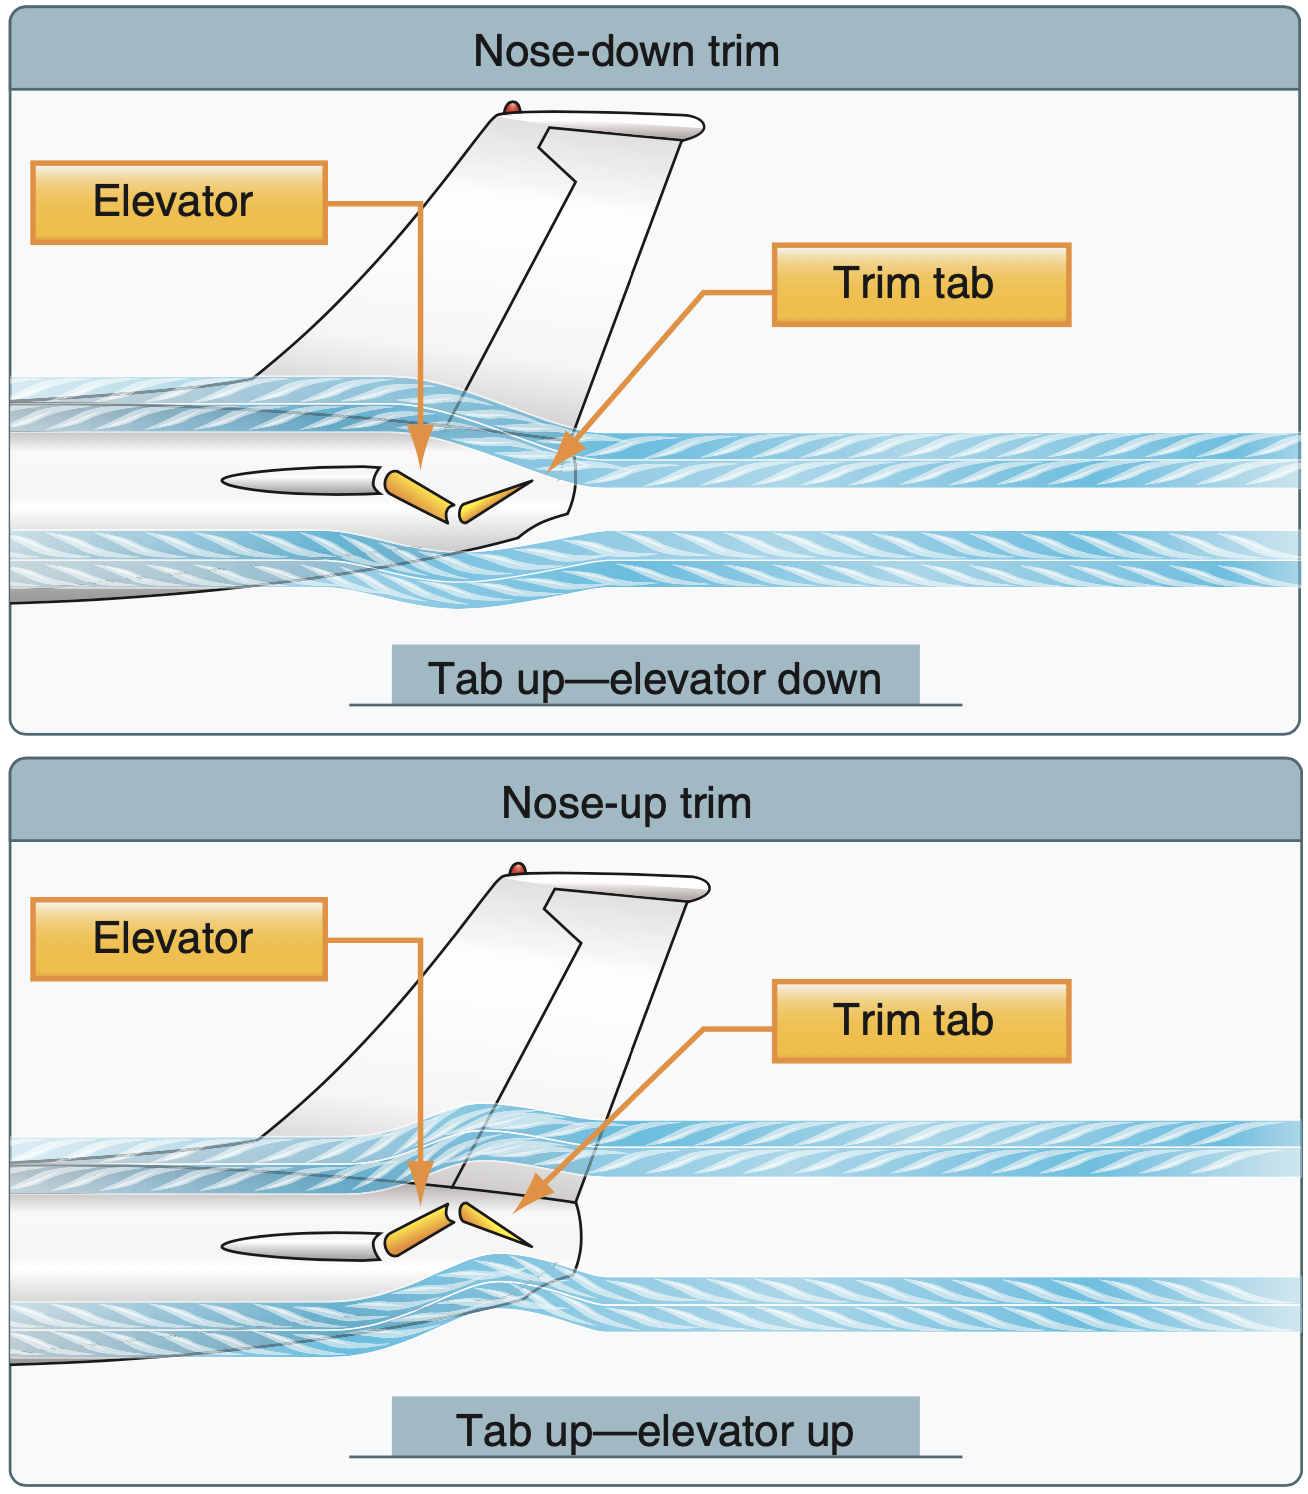
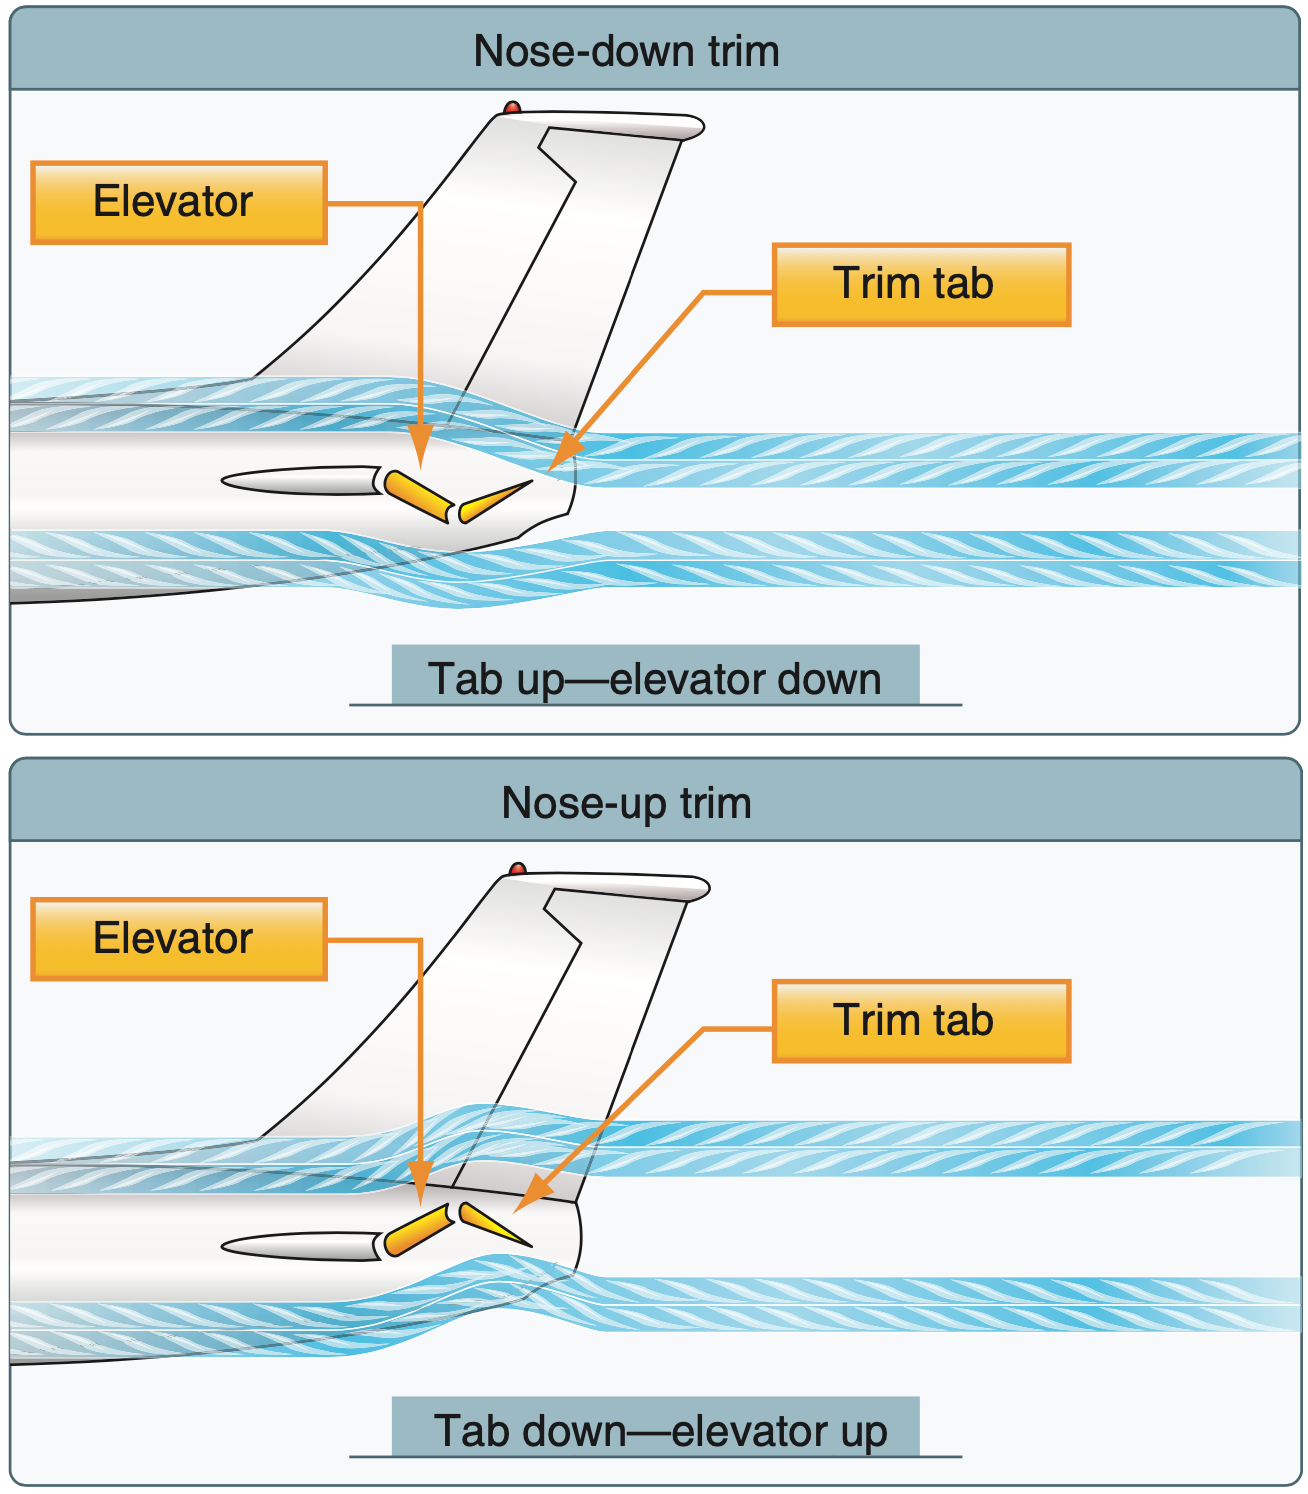
Fixes some errors in effects of controls brief

diff --git a/Effects of controls/effects-of-controls.html b/Effects of controls/effects-of-controls.html
@@ -119,9 +119,9 @@
 <h2 id="flight-controls">Flight controls</h2>
 
 <ul>
-<li data-marpit-fragment="1">Elevator</li>
-<li data-marpit-fragment="2">Ailerons</li>
-<li data-marpit-fragment="3">Rudder</li>
+<li data-marpit-fragment="1"><span>Elevator</span></li>
+<li data-marpit-fragment="2"><span>Ailerons</span></li>
+<li data-marpit-fragment="3"><span>Rudder</span></li>
 </ul>
 <footer>Effects of controls</footer>
 </section>
@@ -155,7 +155,7 @@
 </table>
 <footer>Effects of controls</footer>
 </section>
-</foreignObject></svg><svg data-marpit-svg="" viewBox="0 0 1280 720"><foreignObject width="1280" height="720"><section id="18" data-class="invert" data-footer="Effects of controls" data-theme="gaia" lang="en-AU" class="invert" style="--class:invert;--footer:Effects of controls;--theme:gaia;">
+</foreignObject></svg><svg data-marpit-svg="" viewBox="0 0 1280 720"><foreignObject width="1280" height="720"><section id="18" data-class="lead" data-footer="Effects of controls" data-theme="gaia" lang="en-AU" class="lead" style="--class:lead;--footer:Effects of controls;--theme:gaia;">
 <h2 id="ancillary-flight-controls">Ancillary flight controls</h2>
 <footer>Effects of controls</footer>
 </section>
@@ -287,7 +287,7 @@
 <h2 id="threat-and-error-management">Threat and error management</h2>
 <ul>
 <li data-marpit-fragment="1">Threat and error management (TEM) is a safety management approach</li>
-<li data-marpit-fragment="2">TEM is the process of detecting and responding to threads and errors before they compromise safety</li>
+<li data-marpit-fragment="2">TEM is the process of detecting and responding to threats and errors before they compromise safety</li>
 <li data-marpit-fragment="3"><strong>Threats</strong> have the potential to have a negative effect on flight safety</li>
 <li data-marpit-fragment="4"><strong>Errors</strong> are flight crew actions (or inactions) which can lead to an <strong>undesirable aircraft state</strong> (UAS)</li>
 <li data-marpit-fragment="5">We combat threats and errors by implementing <strong>countermeasures</strong></li>
@@ -401,7 +401,7 @@ If you had to guess, which direction do you think the last force is acting?</p><
 
 This sheet of paper is like an aerodynamic control surface. If I hold it flat and move it through the air then very little force is created. But if I tilt the paper—air will hit the angled surface and get deflected downwards, which pushes the paper upwards. This is simply Newton's 3rd law, for every action there is an equal and opposite reaction.
 
-We can change the magnitude of the force created by the control surface by changing: 1) the angle of the control surface, 2) the speed it moves through the air, 3) the size of the control surface, or 4) the air density.</p></div><div class="bespoke-marp-note" data-index="12" tabindex="0"><p>Longitudinal axis runs down the length of the plane, and when the wings tilt the aircraft is rotating about the longitudinal axis</p></div><div class="bespoke-marp-note" data-index="13" tabindex="0"><p>The lateral axis runs through the plane from wingtip to wingtip. When the nose moves up and down the aircraft is rotating about the lateral axis.</p></div><div class="bespoke-marp-note" data-index="14" tabindex="0"><p>The normal axis is also known as the vertical axis, and it runs from top to bottom through the plane's centre of gravity. When the nose moves left or right the aircraft is rotating about the vertical axis.</p></div><div class="bespoke-marp-note" data-index="15" tabindex="0"><p>Demo with model</p><p>Pushing the control column forward tilts the elevator down. The air hitting the elevator causes the tail to move up, and the nose to move down. This is called pitch.</p><p>Primary effect: pitch up and down</p><p>Turning the control column moves the ailerons in opposite directions. When you turn the control column left the left aileron will move up, and the right aileron will move down. This pushes the left wing down, and the right wing up. This is called roll.</p><p>Primary effect: roll</p><p>Tilts the wings reaction force, causes aircraft to start moving sideways through the air. Air hits the vertical tail fin, which causes a yaw in the direction of roll. Therefore the secondary effect of ailerons is yaw.</p><p>Pushing one of the rudder pedals in moves the rudder. For example pushing the left rudder moves the rudder to the left, which moves the tail right and the nose left. This is called yaw.</p><p>Primary effect: yaw</p><p>As the plane yaws, the outside wing travels a longer path through the air, and therefore is travelling faster. Speed increases the reaction force from the outside wing, which means the outside wing moves upwards. Therefore the secondary effect of rudder is roll.</p></div><div class="bespoke-marp-note" data-index="16" tabindex="0"><p>What can you tell me about the effects of ailerons vs rudder? Their primary and secondary effects are opposite.</p></div><div class="bespoke-marp-note" data-index="19" tabindex="0"><p>An aircraft can have trim tabs on all control surfaces and you will find that larger and more powerful planes, particularly multi-engine planes, do have 3 trim controls. The Cessna 150 however only has trim on the elevator.</p></div><div class="bespoke-marp-note" data-index="20" tabindex="0"><p>FIXME: tab up elevator up is wrong. Remove it</p><p>The trim tab is deflected into the wind in the opposite direction that you want the primary control surface to move, and because it's at the end of a long lever it only needs to create a relatively small force to balance with the control surface in its new position.</p><p>We control the trim by moving the trim wheel. If we roll the trim wheel forward the elevator will be trimmed to a more nose-down position. If we roll it backward the elevator will be trimmed to a more nose-up position. The way I remember this is if I'm holding forward pressure, I need to roll the trim wheel forward. If I'm holding back pressure, I need to roll the trim wheel backward.
+We can change the magnitude of the force created by the control surface by changing: 1) the angle of the control surface, 2) the speed it moves through the air, 3) the size of the control surface, or 4) the air density.</p></div><div class="bespoke-marp-note" data-index="12" tabindex="0"><p>Longitudinal axis runs down the length of the plane, and when the wings tilt the aircraft is rotating about the longitudinal axis</p></div><div class="bespoke-marp-note" data-index="13" tabindex="0"><p>The lateral axis runs through the plane from wingtip to wingtip. When the nose moves up and down the aircraft is rotating about the lateral axis.</p></div><div class="bespoke-marp-note" data-index="14" tabindex="0"><p>The normal axis is also known as the vertical axis, and it runs from top to bottom through the plane's centre of gravity. When the nose moves left or right the aircraft is rotating about the vertical axis.</p></div><div class="bespoke-marp-note" data-index="15" tabindex="0"><p>Demo with model</p><p>Pushing the control column forward tilts the elevator down. The air hitting the elevator causes the tail to move up, and the nose to move down. This is called pitch.</p><p>Primary effect: pitch up and down</p><p>Turning the control column moves the ailerons in opposite directions. When you turn the control column left the left aileron will move up, and the right aileron will move down. This pushes the left wing down, and the right wing up. This is called roll.</p><p>Primary effect: roll</p><p>Tilts the wings reaction force, causes aircraft to start moving sideways through the air. Air hits the vertical tail fin, which causes a yaw in the direction of roll. Therefore the secondary effect of ailerons is yaw.</p><p>Pushing one of the rudder pedals in moves the rudder. For example pushing the left rudder moves the rudder to the left, which moves the tail right and the nose left. This is called yaw.</p><p>Primary effect: yaw</p><p>As the plane yaws, the outside wing travels a longer path through the air, and therefore is travelling faster. Speed increases the reaction force from the outside wing, which means the outside wing moves upwards. Therefore the secondary effect of rudder is roll.</p></div><div class="bespoke-marp-note" data-index="16" tabindex="0"><p>What can you tell me about the effects of ailerons vs rudder? Their primary and secondary effects are opposite.</p></div><div class="bespoke-marp-note" data-index="19" tabindex="0"><p>An aircraft can have trim tabs on all control surfaces and you will find that larger and more powerful planes, particularly multi-engine planes, do have 3 trim controls. The Cessna 150 however only has trim on the elevator.</p></div><div class="bespoke-marp-note" data-index="20" tabindex="0"><p>The trim tab is deflected into the wind in the opposite direction that you want the primary control surface to move, and because it's at the end of a long lever it only needs to create a relatively small force to balance with the control surface in its new position.</p><p>We control the trim by moving the trim wheel. If we roll the trim wheel forward the elevator will be trimmed to a more nose-down position. If we roll it backward the elevator will be trimmed to a more nose-up position. The way I remember this is if I'm holding forward pressure, I need to roll the trim wheel forward. If I'm holding back pressure, I need to roll the trim wheel backward.
 
 Importantly, we don't fly using trim as our means to control attitude. We set the attitude using the elevator, and then trim to relieve control pressure. And in the plane you will find that the adjustments needed to the trim are quite small, particularly when you are trying to get the trim just right—you might only need to move the trim half a centimeter to get it right. We know we've gotten it right because we can take our hands off the yoke and the attitude stays exactly where it is.</p></div><div class="bespoke-marp-note" data-index="21" tabindex="0"><p>Flaps allow us to change the size and the shape of the wing. Remembering back to our piece of paper, what does that do to the reaction force? It increases it! Flaps also affect the drag force, which is the one that resists our movement through the air. What would you guess flaps does to the drag force, increase or decrease it? Increase it! That extra flaps allows us to descend at a steeper angle without going faster.
 

diff --git a/Effects of controls/effects-of-controls.md b/Effects of controls/effects-of-controls.md
@@ -207,14 +207,14 @@ _class:
 
 <!-- Demo with model -->
 
-*   Elevator
+*   <span style="color: #09f">Elevator</span>
     <!-- Pushing the control column forward tilts the elevator down. The air hitting the elevator causes the tail to move up, and the nose to move down. This is called pitch. -->
     <!-- Primary effect: pitch up and down -->
-*   Ailerons
+*   <span style="color: #0c0">Ailerons</span>
     <!-- Turning the control column moves the ailerons in opposite directions. When you turn the control column left the left aileron will move up, and the right aileron will move down. This pushes the left wing down, and the right wing up. This is called roll. -->
     <!-- Primary effect: roll -->
     <!-- Tilts the wings reaction force, causes aircraft to start moving sideways through the air. Air hits the vertical tail fin, which causes a yaw in the direction of roll. Therefore the secondary effect of ailerons is yaw. -->
-*   Rudder
+*   <span style="color: #f00">Rudder</span>
     <!-- Pushing one of the rudder pedals in moves the rudder. For example pushing the left rudder moves the rudder to the left, which moves the tail right and the nose left. This is called yaw. -->
     <!-- Primary effect: yaw -->
     <!-- As the plane yaws, the outside wing travels a longer path through the air, and therefore is travelling faster. Speed increases the reaction force from the outside wing, which means the outside wing moves upwards. Therefore the secondary effect of rudder is roll. -->
@@ -234,6 +234,10 @@ Rudder         | Yaw            | Roll
 <!-- What can you tell me about the effects of ailerons vs rudder? Their primary and secondary effects are opposite. -->
 
 ---
+
+<!--
+_class: lead
+-->
 
 ## Ancillary flight controls
 
@@ -273,7 +277,6 @@ _backgroundColor: #fff
 ## Trim
 
 ![h:450](./elevator-trim-tab-movement.png)
-<!-- FIXME: tab up elevator up is wrong. Remove it -->
 
 <!-- The trim tab is deflected into the wind in the opposite direction that you want the primary control surface to move, and because it's at the end of a long lever it only needs to create a relatively small force to balance with the control surface in its new position. -->
 
@@ -414,7 +417,7 @@ _backgroundColor: #fff
 ## Threat and error management
 
 *   Threat and error management (TEM) is a safety management approach
-*   TEM is the process of detecting and responding to threads and errors before they compromise safety
+*   TEM is the process of detecting and responding to threats and errors before they compromise safety
 *   **Threats** have the potential to have a negative effect on flight safety
 *   **Errors** are flight crew actions (or inactions) which can lead to an **undesirable aircraft state** (UAS)
 *   We combat threats and errors by implementing **countermeasures**
